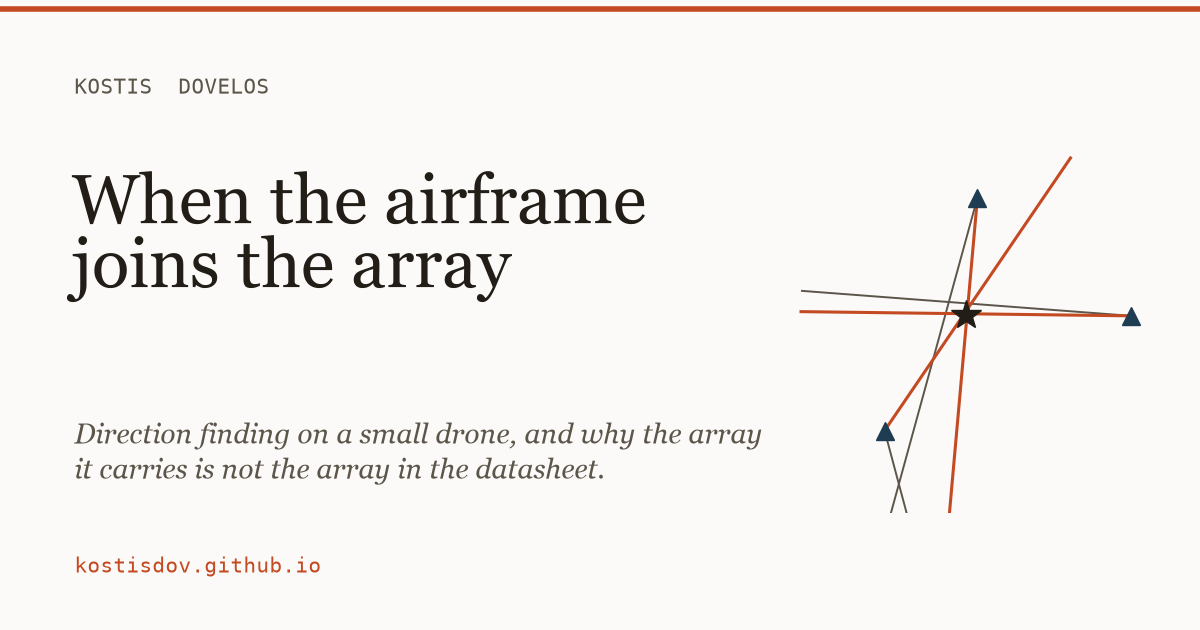
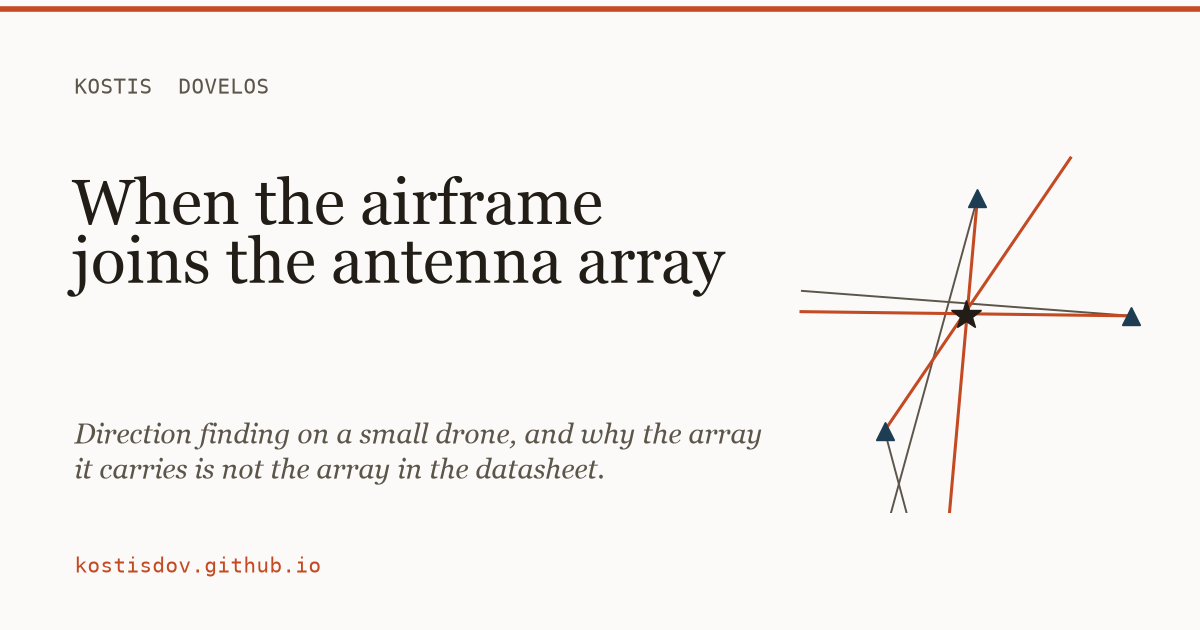
Name the antenna array in the airframe post title

Changed region(s): [[0.0308, 0.2714, 0.6167, 0.4825]]

diff --git a/scripts/social_cards.py b/scripts/social_cards.py
@@ -169,7 +169,7 @@ _ad = np.load(os.path.join(os.path.dirname(__file__), "data", "airframe-array.np
 fig = new_card()
 fig.text(0.062, 0.86, "KOSTIS  DOVELOS", fontsize=15, color=INK_SOFT,
          family="monospace", va="center")
-fig.text(0.060, 0.63, "When the airframe\njoins the array", fontsize=50, color=INK,
+fig.text(0.060, 0.63, "When the airframe\njoins the antenna array", fontsize=46, color=INK,
          va="center", linespacing=1.05)
 fig.text(0.062, 0.28, "Direction finding on a small drone, and why the array\n"
                       "it carries is not the array in the datasheet.",

diff --git a/src/content/posts/when-the-airframe-joins-the-array.md b/src/content/posts/when-the-airframe-joins-the-array.md
@@ -1,5 +1,5 @@
 ---
-title: "When the airframe joins the array"
+title: "When the airframe joins the antenna array"
 description: "On a small drone the airframe becomes part of the direction-finding array. A simulation study of what this does to bearings and to emitter localization, and of which calibration recovers them."
 date: 2026-10-06
 tags: ["signals", "wireless"]
